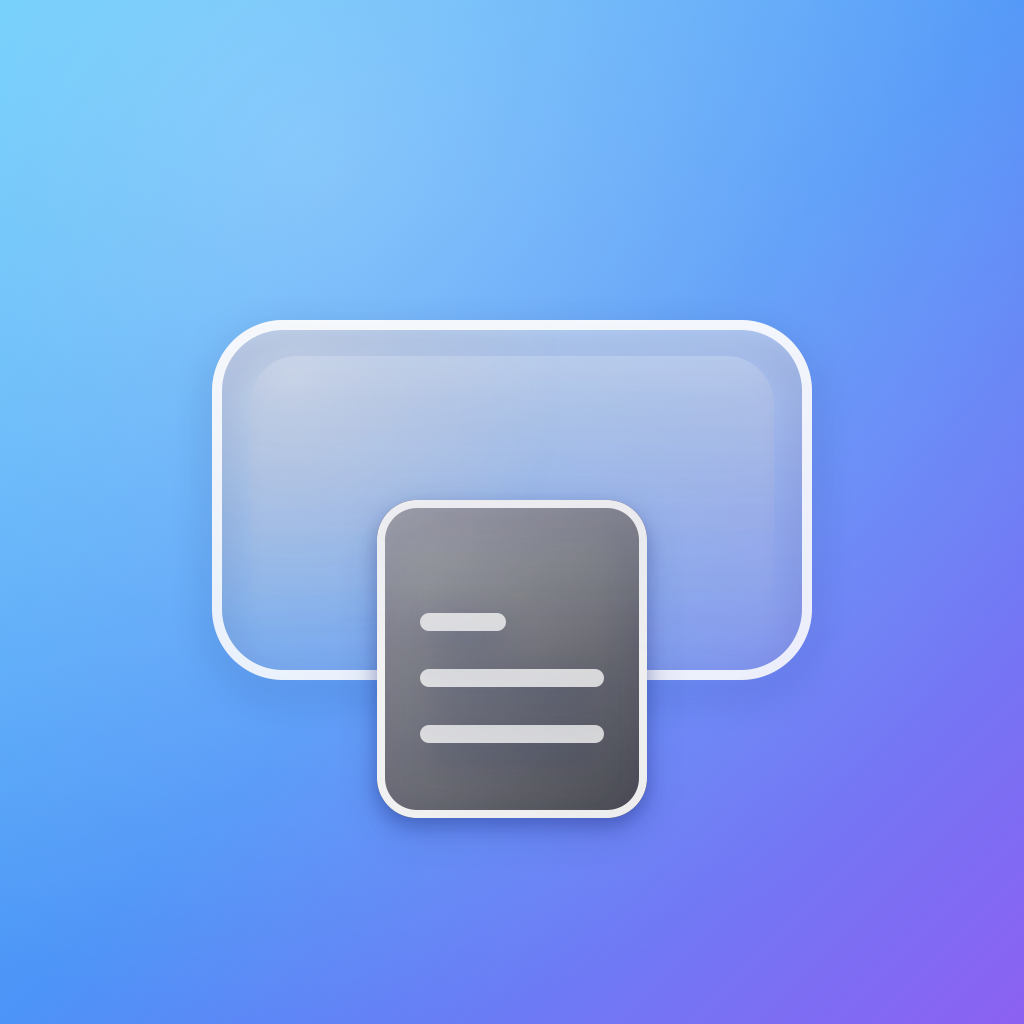
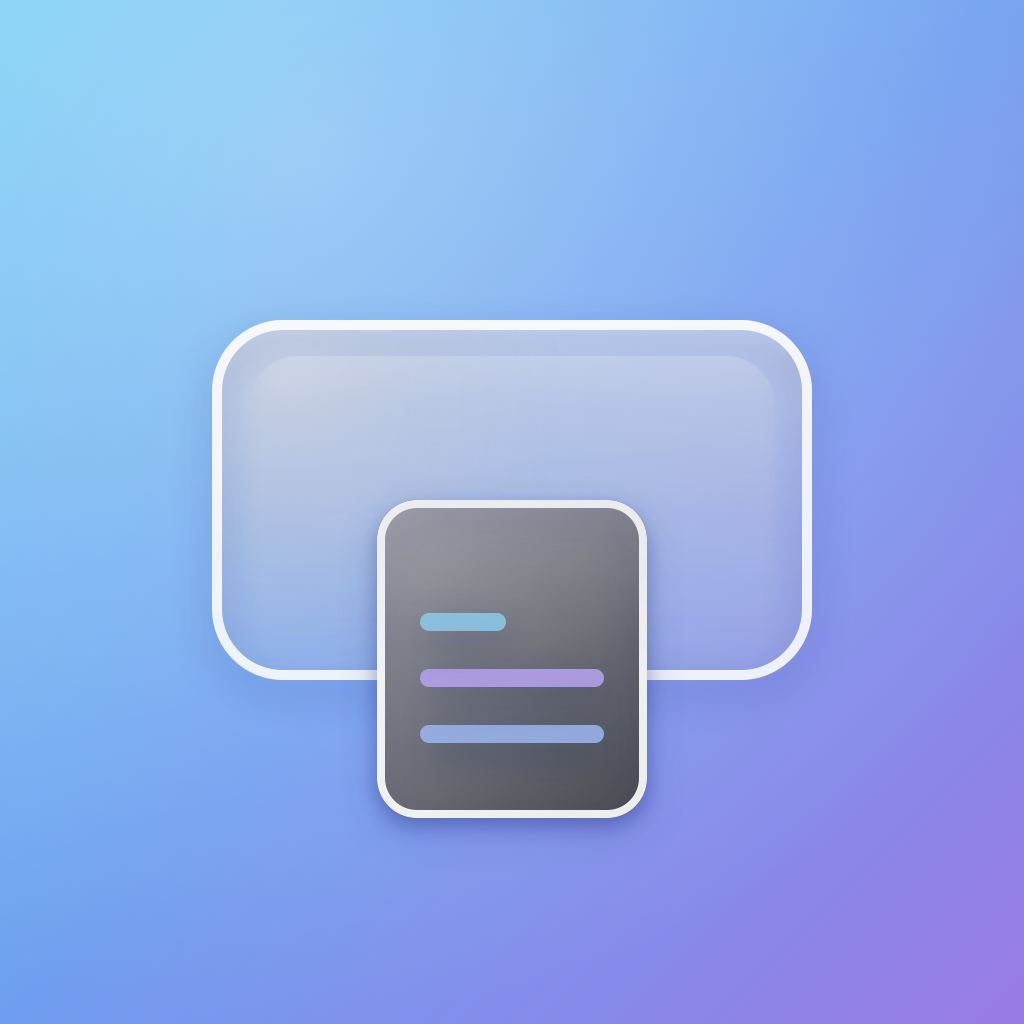
feat: 图标 v5 定稿 — 去闪光星 + 蓝紫收敛（参考图风格）
- 移除四角闪光星（用户反馈）
- 暖色色条(粉/杏/绿) → 蓝紫系细线（对齐参考图 52%蓝紫+48%中性灰）
- 背景柔和青蓝紫渐变（承 v4.1 降饱和，护眼）
- 保持玻璃托盘 + 文档卡片结构（暂存语义）

验证: generate-icon 幂等 / 10 尺寸规格 / BUILD SUCCEEDED

diff --git a/scripts/generate-icon.swift b/scripts/generate-icon.swift
@@ -51,11 +51,11 @@ func drawIcon(size: Int) -> CGImage {
         bitmapInfo: CGImageAlphaInfo.premultipliedLast.rawValue
     )!
 
-    // 1. 背景：通透青蓝渐变（玻璃透光感）
+    // 1. 背景：柔和青蓝渐变（活泼但降低饱和度，护眼）
     let bgColors = [
-        rgba(0.35, 0.78, 0.98),   // 顶部亮青
-        rgba(0.30, 0.58, 0.97),   // 中部蓝
-        rgba(0.55, 0.38, 0.95)    // 底部紫
+        rgba(0.45, 0.80, 0.96),   // 顶部柔和青
+        rgba(0.44, 0.62, 0.94),   // 中部柔和蓝
+        rgba(0.60, 0.48, 0.90)    // 底部柔和紫
     ] as CFArray
     let bgGrad = CGGradient(colorsSpace: sRGB, colors: bgColors, locations: [0, 0.5, 1])!
     ctx.drawLinearGradient(
@@ -145,15 +145,22 @@ func drawIcon(size: Int) -> CGImage {
     ctx.addPath(roundedRectPath(cardRect.insetBy(dx: 4 * u, dy: 4 * u), radius: 36 * u))
     ctx.strokePath()
 
-    // 5c. 卡片内容线（三道半透明白线，代表文件内容；不用小圆点）
-    ctx.setStrokeColor(rgba(1, 1, 1, 0.75))
-    ctx.setLineWidth(18 * u)
-    ctx.setLineCap(.round)
-    for i in 0..<3 {
+    // 5c. 卡片内容线 → 参考图风格：蓝紫系细线（去暖色，收敛）
+    let accentColors: [(CGFloat, CGFloat, CGFloat)] = [
+        (0.62, 0.72, 0.95),   // 柔和蓝
+        (0.72, 0.64, 0.94),   // 柔和紫
+        (0.55, 0.80, 0.92)    // 柔和青
+    ]
+    for (i, c) in accentColors.enumerated() {
         let lineY = cardRect.minY + 84 * u + CGFloat(i) * 56 * u
         let lineMaxX = cardRect.maxX - (i == 2 ? 150.0 : 52.0) * u
-        ctx.move(to: CGPoint(x: cardRect.minX + 52 * u, y: lineY))
-        ctx.addLine(to: CGPoint(x: lineMaxX, y: lineY))
+        let linePath = CGMutablePath()
+        linePath.move(to: CGPoint(x: cardRect.minX + 52 * u, y: lineY))
+        linePath.addLine(to: CGPoint(x: lineMaxX, y: lineY))
+        ctx.setStrokeColor(rgba(c.0, c.1, c.2, 0.85))
+        ctx.setLineWidth(18 * u)
+        ctx.setLineCap(.round)
+        ctx.addPath(linePath)
         ctx.strokePath()
     }
 
@@ -169,6 +176,9 @@ func drawIcon(size: Int) -> CGImage {
         options: []
     )
     ctx.restoreGState()
+
+    // 7. 活泼装饰已移除（用户反馈参考图不需要闪光星）：
+    //    保持玻璃托盘 + 文档卡片的简洁结构，聚焦"暂存"语义。
 
     return ctx.makeImage()!
 }
